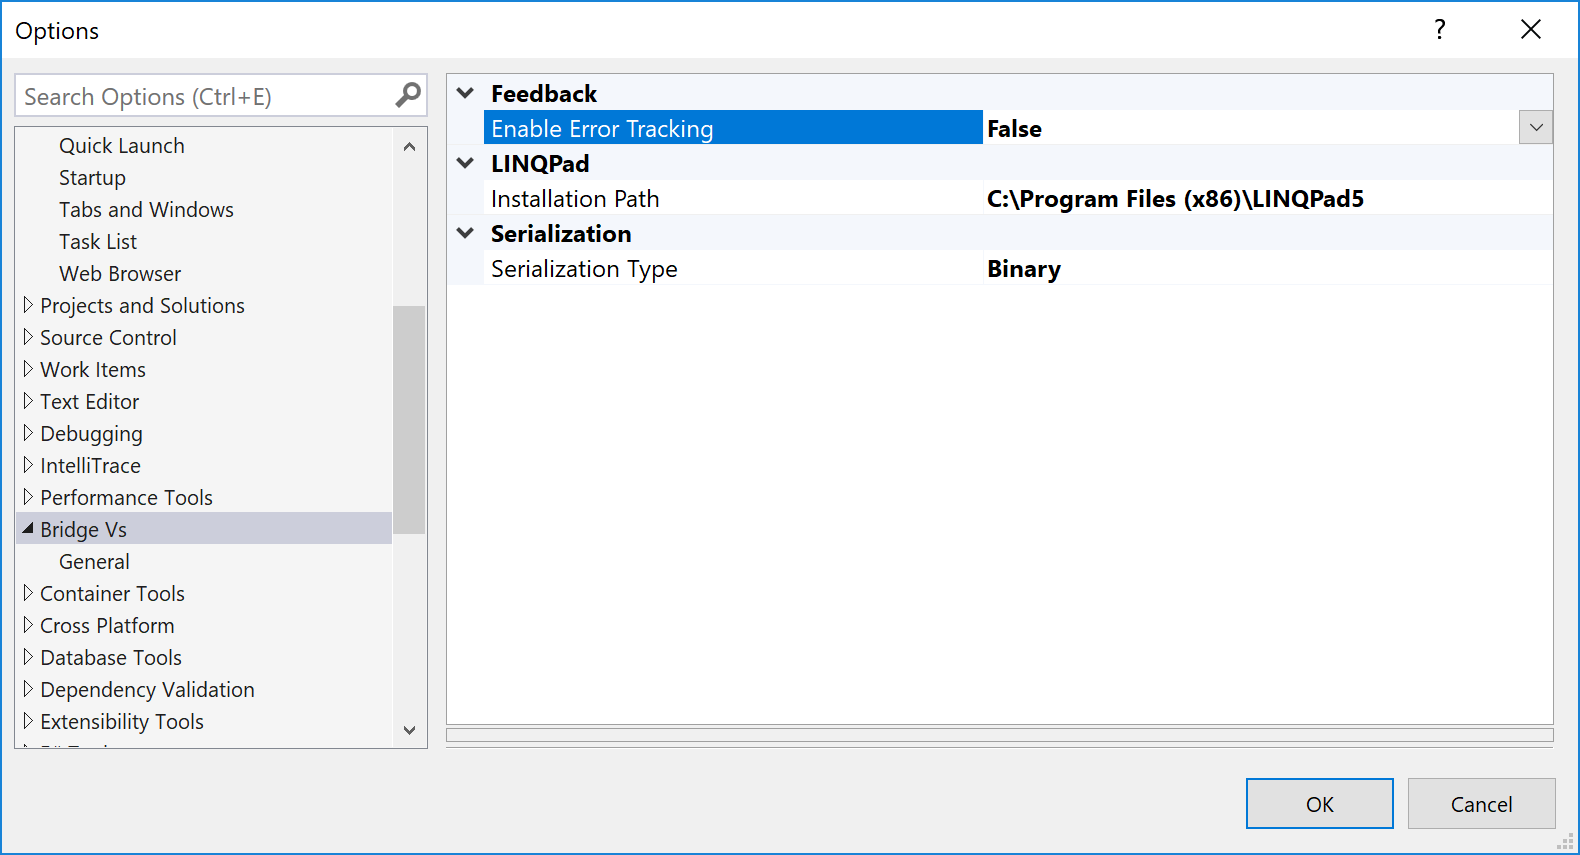
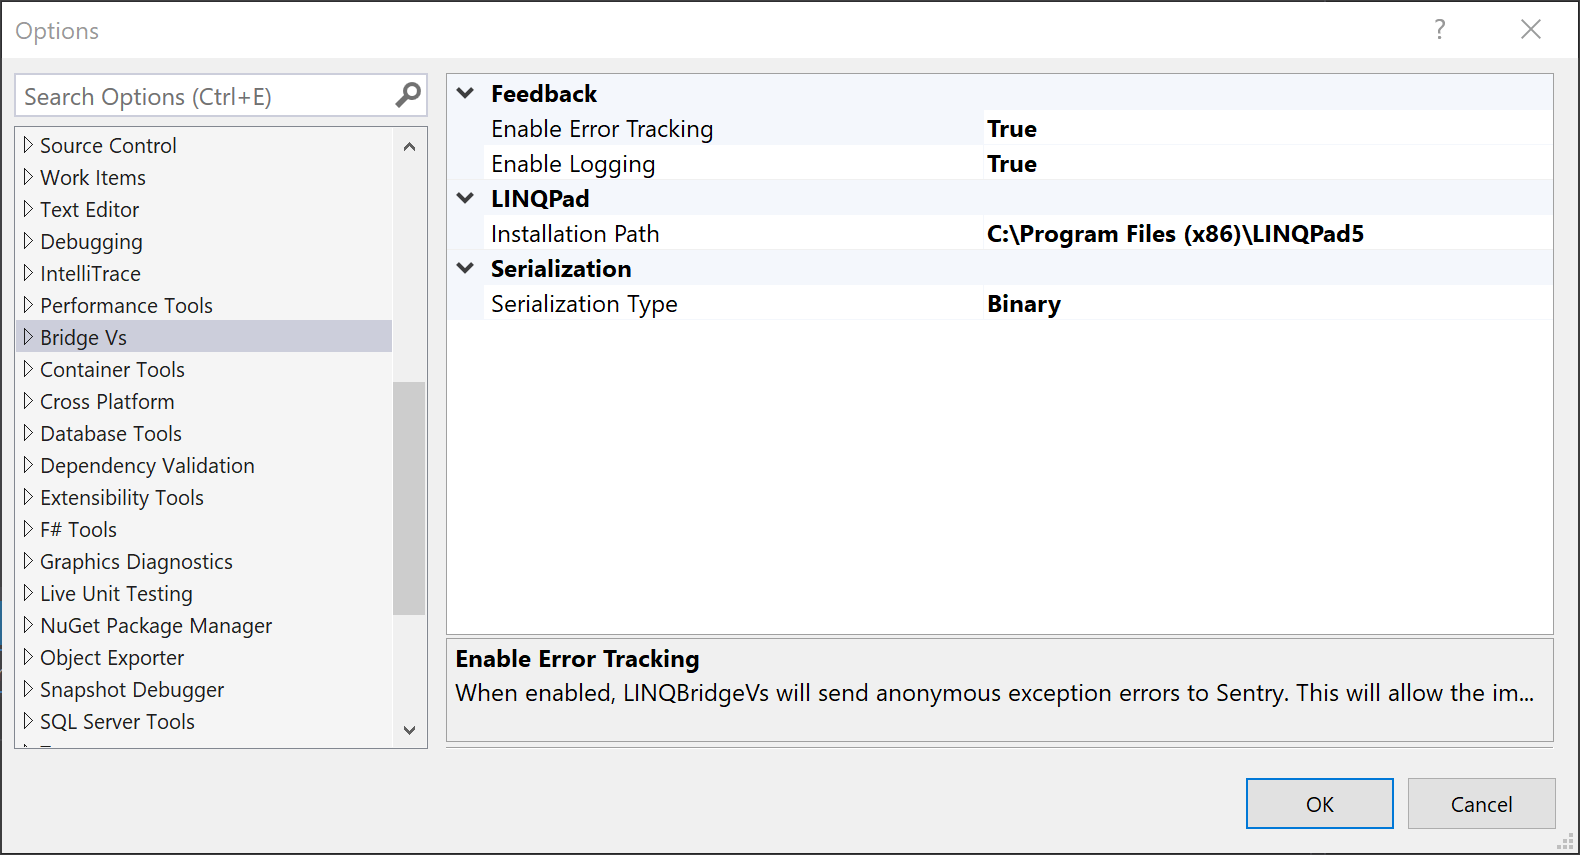
adds logging as a Visual Studio option
adds in Option->BridgeVs logging option so they can be turned on and off
refactor existing classes to use the new logging logic

diff --git a/Src/BridgeVs.Locations/Logging/Log.cs b/Src/BridgeVs.Locations/Logging/Log.cs
@@ -32,10 +32,18 @@ namespace BridgeVs.Shared.Logging
 {
     public static class Log
     {
-        private static string _logTxtFilePath = Path.Combine(CommonFolderPaths.LogFolderPath, "logs.txt");
+        private static readonly string LogTxtFilePath = Path.Combine(CommonFolderPaths.LogFolderPath, "logs.txt");
+
+        public static string VisualStudioVersion { get; set; }
 
         public static void Write(Exception ex, string context = null)
         {
+            if (string.IsNullOrEmpty(VisualStudioVersion))
+                return;
+
+            if (!CommonRegistryConfigurations.IsLoggingEnabled(VisualStudioVersion))
+                return;
+
             try
             {
                 string text = string.Concat(ex.GetType().Name, ": ", ex.Message, "\r\n", ex.StackTrace ?? "");
@@ -62,7 +70,7 @@ namespace BridgeVs.Shared.Logging
             if (args != null && args.Length > 0)
                 msg = string.Format(CultureInfo.InvariantCulture, msg, args);
 
-            File.AppendAllText(_logTxtFilePath, string.Concat(new[]
+            File.AppendAllText(LogTxtFilePath, string.Concat(new[]
                 {
                     DateTime.Now.ToString("o"), " ", msg.Trim(), Environment.NewLine
                 }));
@@ -74,6 +82,12 @@ namespace BridgeVs.Shared.Logging
         /// <param name="msg">A composite format string (see Remarks) that contains text intermixed with zero or more format items, which correspond to objects in the <paramref name="args"/> array.</param><param name="args">An object array that contains zero or more objects to format. </param>
         public static void Write(string msg, params object[] args)
         {
+            if (string.IsNullOrEmpty(VisualStudioVersion))
+                return;
+
+            if (!CommonRegistryConfigurations.IsLoggingEnabled(VisualStudioVersion))
+                return;
+
             try
             {
                 InternalWrite(msg, args);
@@ -82,22 +96,6 @@ namespace BridgeVs.Shared.Logging
             {
                 // ignored
             }
-        }
-
-        public static void WriteIf(bool condition, string msg, params object[] args)
-        {
-            if (!condition)
-                return;
-
-            Write(msg, args);
-        }
-
-        public static void WriteIf(bool condition, Exception exception, string context)
-        {
-            if (!condition)
-                return;
-
-            Write(exception, context);
-        }
+        } 
     }
 }

diff --git a/Src/BridgeVs.Locations/Common/CommonRegistryConfigurations.cs b/Src/BridgeVs.Locations/Common/CommonRegistryConfigurations.cs
@@ -9,11 +9,13 @@ namespace BridgeVs.Shared.Common
     {
         private const string ErrorTrackingRegistryValue = "SentryErrorTracking";
         private const string SerializationMethodRegistryValue = "SerializationMethod";
+        public static string LoggingRegistryValue = "Logging";
 
         // ReSharper disable once InconsistentNaming
         private const string LINQPadInstallationPathRegistryValue = "LINQPadInstallationPath";
         // ReSharper disable once InconsistentNaming
         private const string LINQPadVersionPathRegistryValue = "LINQPadVersion";
+
 
         // ReSharper disable once InconsistentNaming
         public static string GetLINQPadInstallationPath(string vsVersion)
@@ -119,6 +121,28 @@ namespace BridgeVs.Shared.Common
                 }
 
                 return SerializationOption.Binary;
+            }
+        }
+
+        public static bool IsLoggingEnabled(string vsVersion)
+        {
+            bool isLoggingEnabled = false;
+
+            using (RegistryKey key = Registry.CurrentUser.OpenSubKey($@"Software\LINQBridgeVs\{vsVersion}"))
+            {
+                string logging = key?.GetValue(LoggingRegistryValue) as string;
+                if (!string.IsNullOrEmpty(logging))
+                    isLoggingEnabled = Convert.ToBoolean(logging);
+            }
+
+            return isLoggingEnabled;
+        }
+
+        public static void SetLogging(string vsVersion, bool enabled)
+        {
+            using (RegistryKey key = Registry.CurrentUser.CreateSubKey($@"Software\LINQBridgeVs\{vsVersion}"))
+            {
+                key?.SetValue(LoggingRegistryValue, enabled);
             }
         }
     }

diff --git a/Src/BridgeVs.VsPackage.Helper/Settings/PackageSettings.cs b/Src/BridgeVs.VsPackage.Helper/Settings/PackageSettings.cs
@@ -118,6 +118,28 @@ namespace BridgeVs.VsPackage.Helper.Settings
             }
         }
 
+        private bool _isLoggingEnabled = Defaults.LoggingEnabled;
+
+        [Category("Feedback")]
+        [DisplayName("Enable Logging")]
+        [Description(@"Enable diagnostic logging for this extension. Logs will be saved in %LOCALAPPDATA%\BridgeVs\logs.txt")]
+        public bool LoggingEnabled
+        {
+            get
+            {
+                return _isLoggingEnabled;
+            }
+            set
+            {
+                var dte = (DTE)GetService(typeof(SDTE));
+                if (dte != null)
+                {
+                    CommonRegistryConfigurations.SetLogging(dte.Version, value);
+                    _isLoggingEnabled = value;
+                }
+            }
+        }
+
         private SerializationOption _serializationOption = Defaults.SerializationMethod;
 
         [Category("Serialization")]

diff --git a/Src/BridgeVs.DynamicVisualizers/Helper/ReferencedAssemblyFinderHelper.cs b/Src/BridgeVs.DynamicVisualizers/Helper/ReferencedAssemblyFinderHelper.cs
@@ -54,9 +54,9 @@ namespace BridgeVs.DynamicVisualizers.Helper
                     if (!string.IsNullOrEmpty(originalTypeLocation))
                         returnList.Add(originalTypeLocation);
 
-                    Log.WriteIf(
-                        !string.IsNullOrEmpty(originalTypeLocation) &&
-                        !@type.Assembly.Location.Equals(originalTypeLocation), "No Referenced Assemblies");
+                    if (!string.IsNullOrEmpty(originalTypeLocation) &&
+                        !@type.Assembly.Location.Equals(originalTypeLocation))
+                        Log.Write("No Referenced Assemblies");
 
                     IEnumerable<string> referencedAssemblyPaths = @type.Assembly.GetReferencedAssembliesPath(originalTypeLocation);
 

diff --git a/Src/BridgeVs.Locations/Settings/Defaults.cs b/Src/BridgeVs.Locations/Settings/Defaults.cs
@@ -31,5 +31,8 @@ namespace BridgeVs.Shared.Settings
     {
         public const string LINQPadInstallationPath = @"C:\Program Files (x86)\LINQPad5";
         public const SerializationOption SerializationMethod = SerializationOption.Binary;
-        public const bool ErrorTrackingEnabled = false;}
+        public const bool ErrorTrackingEnabled = false;
+        public const bool LoggingEnabled = false;
+
+    }
 }

diff --git a/Src/BridgeVs.DynamicVisualizers/DynamicObjectSource.cs b/Src/BridgeVs.DynamicVisualizers/DynamicObjectSource.cs
@@ -47,6 +47,7 @@ namespace BridgeVs.DynamicVisualizers
             //configure once the vs version
             string vsVersion = VisualStudioVersionHelper.FindCurrentVisualStudioVersion();
             RavenWrapper.VisualStudioVersion = vsVersion;
+            Log.VisualStudioVersion = vsVersion;
 
             try
             {

diff --git a/Src/BridgeVs.DynamicVisualizers/DynamicDebuggerVisualizer.cs b/Src/BridgeVs.DynamicVisualizers/DynamicDebuggerVisualizer.cs
@@ -195,6 +195,7 @@ namespace BridgeVs.DynamicVisualizers
         {
             string vsVersion = VisualStudioVersionHelper.FindCurrentVisualStudioVersion();
             RavenWrapper.VisualStudioVersion = vsVersion;
+            Log.VisualStudioVersion = vsVersion;
 
             try
             {

diff --git a/Src/BridgeVs.Build/Tasks/CleanBuildTask.cs b/Src/BridgeVs.Build/Tasks/CleanBuildTask.cs
@@ -36,6 +36,7 @@ namespace BridgeVs.Build.Tasks
         public bool Execute()
         {
             RavenWrapper.VisualStudioVersion = VisualStudioVer;
+            Log.VisualStudioVersion = VisualStudioVer;
 
             try
             {

diff --git a/Src/BridgeVs.Build/Tasks/MapperBuildTask.cs b/Src/BridgeVs.Build/Tasks/MapperBuildTask.cs
@@ -66,6 +66,7 @@ namespace BridgeVs.Build.Tasks
         public bool Execute()
         {
             RavenWrapper.VisualStudioVersion = VisualStudioVer;
+            Log.VisualStudioVersion = VisualStudioVer;
 
             try
             {

diff --git a/Src/BridgeVs.Build/Tasks/SInjectionBuildTask.cs b/Src/BridgeVs.Build/Tasks/SInjectionBuildTask.cs
@@ -44,6 +44,7 @@ namespace BridgeVs.Build.Tasks
         public bool Execute()
         {
             RavenWrapper.VisualStudioVersion = VisualStudioVer;
+            Log.VisualStudioVersion = VisualStudioVer;
 
             try
             {
